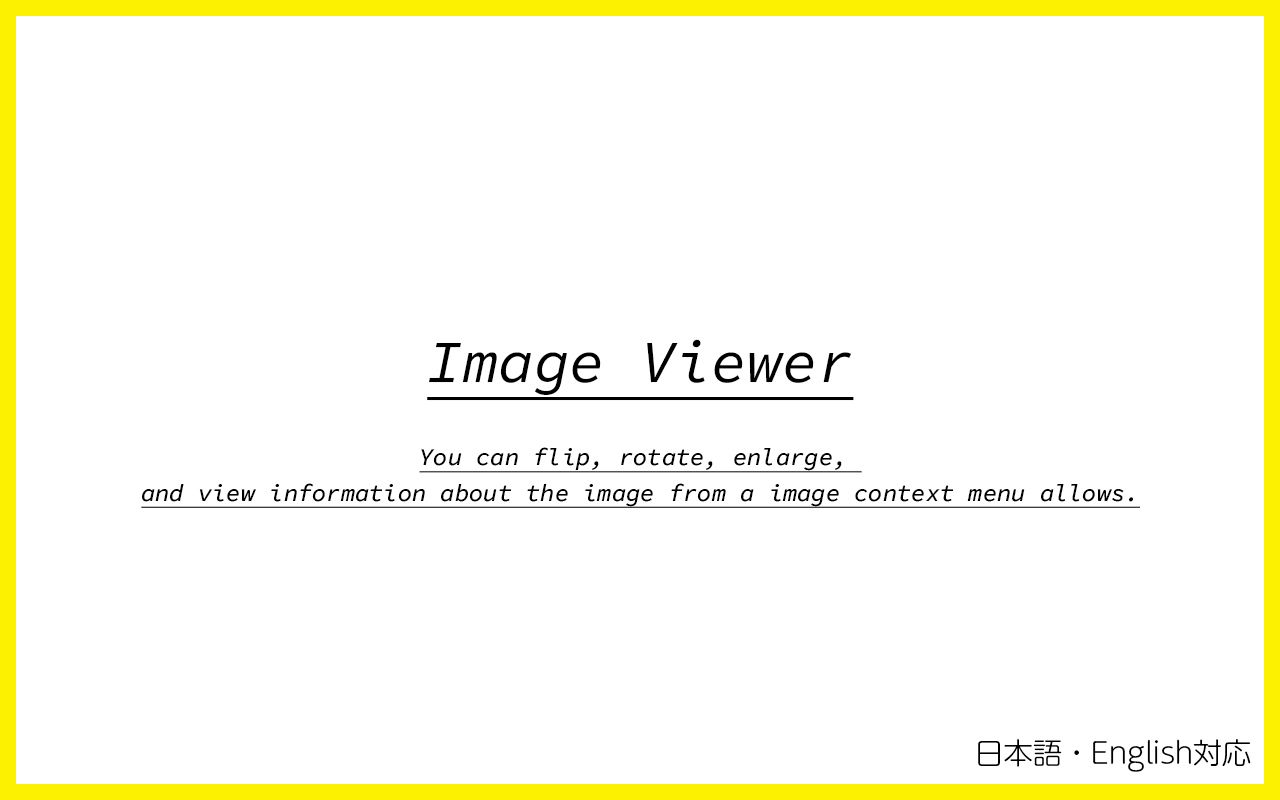
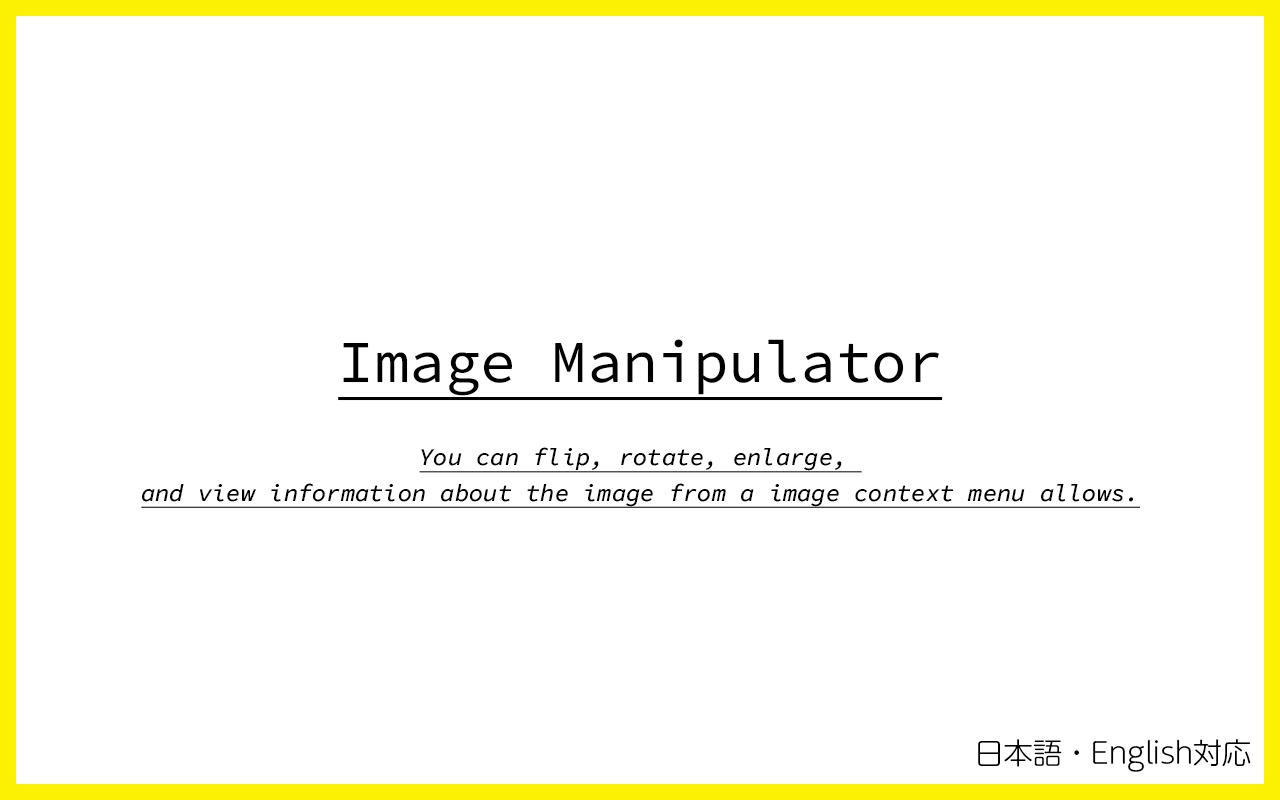
1.2.3

Changed region(s): [[0.25, 0.4062, 0.75, 0.5]]

diff --git a/src/content_scripts.ts b/src/content_scripts.ts
@@ -453,7 +453,7 @@ const { imageViewer, dialog, showDialog, dialogContains, getImageData, setImageD
 
     element.role = 'dialog';
     element.ariaModal = 'true';
-    element.ariaLabel = 'Image Viewer';
+    element.ariaLabel = chrome.i18n.getMessage('extName');
     element.addEventListener('keydown', (e) => {
       if (e.key === 'ESC') {
         e.preventDefault();
@@ -1262,7 +1262,7 @@ const { imageViewer, dialog, showDialog, dialogContains, getImageData, setImageD
       return `${cssText.trim()}${mediaQuery === '' ? '' : '}'}`;
     };
 
-    element.dataset.from = 'chrome-extension-image-viewer';
+    element.dataset.from = 'chrome-extension-image-manipulator';
     element.textContent = convertToCSSText({
       ':host': {
         display: 'block !important',
@@ -1727,7 +1727,7 @@ const { imageViewer, dialog, showDialog, dialogContains, getImageData, setImageD
 
     return element;
   })();
-  const imageViewer = document.createElement('image-viewer');
+  const imageViewer = document.createElement('heppokofrontend-imagemanipulator');
   const shadowRoot = imageViewer.attachShadow({ mode: 'closed' });
   const zoomAndScrollInit = (
     targetImage: HTMLImageElement,
@@ -2136,7 +2136,7 @@ const { imageViewer, dialog, showDialog, dialogContains, getImageData, setImageD
             });
 
             if (isError) {
-              console.log('Chrome Extension Image Viewer: 404 ERROR', currentImageElement);
+              console.log('Chrome Extension Image Manipulator: 404 ERROR', currentImageElement);
               dialog.removeAttribute('aria-busy');
               spaceElement.classList.remove('loading');
               return;
@@ -2262,7 +2262,7 @@ chrome.runtime.onMessage.addListener(({ menuItemId }, _, sendResponse) => {
   if (menuItemId === 'reset-all') {
     const nodeList = [
       ...(targetElement ? [targetElement] : []),
-      ...document.querySelectorAll<HTMLImageElement>('[data-image-viewer-default-style]'),
+      ...document.querySelectorAll<HTMLImageElement>('[data-image-manipulator-default-style]'),
     ];
 
     nodeList.forEach((image) => {
@@ -2285,8 +2285,8 @@ chrome.runtime.onMessage.addListener(({ menuItemId }, _, sendResponse) => {
         });
       }
 
-      if (typeof image.dataset.imageViewerDefaultStyle === 'string') {
-        image.setAttribute('style', image.dataset.imageViewerDefaultStyle);
+      if (typeof image.dataset.imageManipulatorDefaultStyle === 'string') {
+        image.setAttribute('style', image.dataset.imageManipulatorDefaultStyle);
       }
     });
 
@@ -2321,8 +2321,8 @@ chrome.runtime.onMessage.addListener(({ menuItemId }, _, sendResponse) => {
             fileSize: imageData.fileSize,
           });
         } else {
-          if (typeof targetElement.dataset.imageViewerDefaultStyle === 'string') {
-            targetElement.setAttribute('style', targetElement.dataset.imageViewerDefaultStyle);
+          if (typeof targetElement.dataset.imageManipulatorDefaultStyle === 'string') {
+            targetElement.setAttribute('style', targetElement.dataset.imageManipulatorDefaultStyle);
           }
         }
 
@@ -2356,7 +2356,7 @@ window.addEventListener('contextmenu', ({ target }) => {
 
   if (!(targetImage instanceof HTMLImageElement)) {
     currentImageElement = null;
-    console.log('Chrome Extension Image Viewer: No image');
+    console.log('Chrome Extension Image Manipulator: No image');
 
     return;
   }
@@ -2365,8 +2365,8 @@ window.addEventListener('contextmenu', ({ target }) => {
     const isInDialog = dialogContains(targetImage);
 
     if (!isInDialog) {
-      if (typeof targetImage.dataset.imageViewerDefaultStyle !== 'string') {
-        targetImage.dataset.imageViewerDefaultStyle = targetImage.getAttribute('style') || '';
+      if (typeof targetImage.dataset.imageManipulatorDefaultStyle !== 'string') {
+        targetImage.dataset.imageManipulatorDefaultStyle = targetImage.getAttribute('style') || '';
       }
 
       currentImageElement = targetImage;

diff --git a/src/worker.ts b/src/worker.ts
@@ -1,7 +1,7 @@
 chrome.runtime.onInstalled.addListener(() => {
   const parentId = chrome.contextMenus.create({
-    id: 'heppokofrontend.image.viewer',
-    title: 'Image Viewer',
+    id: 'heppokofrontend.image.manipulator',
+    title: 'Image Manipulator',
     contexts: ['all'],
   });
 

diff --git a/README--ja.md b/README--ja.md
@@ -1,6 +1,6 @@
-# 画像をいい感じに Web ページ上で確認できるやつ
+# 画像の拡大・反転・回転ができるやつ
 
-[![MIT License](http://img.shields.io/badge/license-MIT-blue.svg?style=flat)](LICENSE) [![Maintainability](https://api.codeclimate.com/v1/badges/2ecea4aab33e03fa6016/maintainability)](https://codeclimate.com/github/heppokofrontend/chrome-extension-image-viewer/maintainability)
+[![MIT License](http://img.shields.io/badge/license-MIT-blue.svg?style=flat)](LICENSE) [![Maintainability](https://api.codeclimate.com/v1/badges/2ecea4aab33e03fa6016/maintainability)](https://codeclimate.com/github/heppokofrontend/chrome-extension-image-manipulator/maintainability)
 
 ![](./images/main.png)
 
@@ -12,12 +12,12 @@
 
 Google Chrome にインストールしてください。
 
-[![Available in the Chrome Web Store](./images/iNEddTyWiMfLSwFD6qGq.png)](https://chrome.google.com/webstore/detail/image-viewer/obkebbjepldbhebchaimjhmgbpniiceb?hl=ja&authuser=0)
+[![Available in the Chrome Web Store](./images/iNEddTyWiMfLSwFD6qGq.png)](https://chrome.google.com/webstore/detail/image-manipulator/obkebbjepldbhebchaimjhmgbpniiceb?hl=ja&authuser=0)
 
 ## How to use
 
 1. Web ページ上の画像を右クリック（コンテキストメニューを開く）
-2. Image Viewer を選ぶ
+2. Image Manipulator を選ぶ
 3. 任意のメニューをクリックする
 
 ### 💡「詳細を表示」機能について

diff --git a/README.md b/README.md
@@ -1,6 +1,6 @@
-# Image Viewer
+# Image Manipulator
 
-[![MIT License](http://img.shields.io/badge/license-MIT-blue.svg?style=flat)](LICENSE) [![Maintainability](https://api.codeclimate.com/v1/badges/2ecea4aab33e03fa6016/maintainability)](https://codeclimate.com/github/heppokofrontend/chrome-extension-image-viewer/maintainability)
+[![MIT License](http://img.shields.io/badge/license-MIT-blue.svg?style=flat)](LICENSE) [![Maintainability](https://api.codeclimate.com/v1/badges/2ecea4aab33e03fa6016/maintainability)](https://codeclimate.com/github/heppokofrontend/chrome-extension-image-manipulator/maintainability)
 
 ![](./images/main.png)
 
@@ -12,12 +12,12 @@ This tool allows you to manipulate the target image from the context menu (right
 
 Install it on your Google Chrome from here.
 
-[![Available in the Chrome Web Store](./images/iNEddTyWiMfLSwFD6qGq.png)](https://chrome.google.com/webstore/detail/image-viewer/obkebbjepldbhebchaimjhmgbpniiceb?hl=ja&authuser=0)
+[![Available in the Chrome Web Store](./images/iNEddTyWiMfLSwFD6qGq.png)](https://chrome.google.com/webstore/detail/image-manipulator/obkebbjepldbhebchaimjhmgbpniiceb?hl=ja&authuser=0)
 
 ## How to use
 
 1. Click a image on a web page
-2. Choose [Image Viewer]
+2. Choose [Image Manipulator]
 3. Click menus
 
 ### 💡 The "View the details" function
